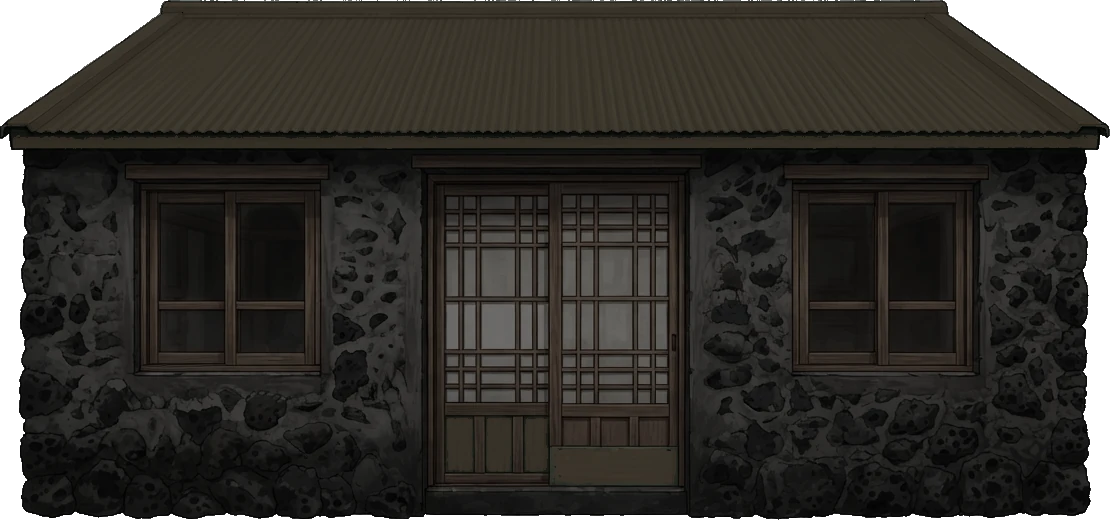
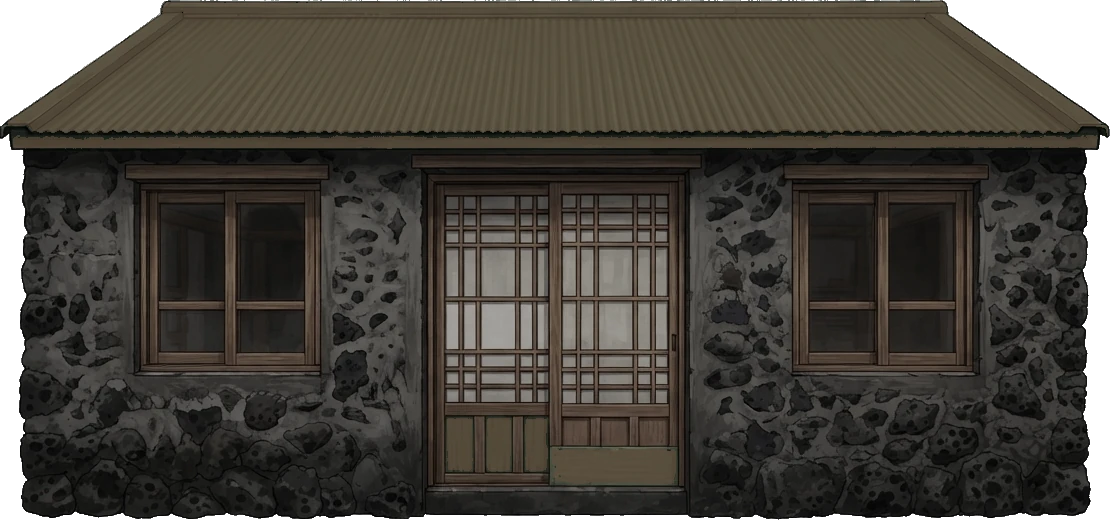
집 이설, 마구간·당근·조랑말, 물속 그림 대폭 교체
■ 헌집
- 폐가가 새까매서 알아볼 수 없다는 지적 → 밝기를 올리고 낡은 느낌은
  녹슨 지붕과 빛바랜 색이 전하도록 바꿈
- 남쪽 돌담길을 죽 내려간 언덕 끝, 바다가 내려다보이는 자리로 이설 (58,-72)
- 안내용 남쪽 돌담길 두 구간 추가, 비탈에 반쯤 파묻히던 문제는
  집 높이를 접근로 쪽 땅에 맞춰 해결

■ 마구간과 조랑말 (경마의 밑거름)
- 서쪽 벌판(-79,8)에 초가 마구간 (직접 그리신 그림, 조랑말이 안에 서 있음)
- 이장님 상점 앞 당근 바구니: F로 1,000원에 구입, 보유 수 배지 표시
- 마구간 앞 F: 당근 하나 먹이기 → 애정 +1 (❤ N/100 표시)
- 애정 100이면 경마 출전 가능 (경마 이벤트는 영상이 오면 붙임)

■ 물속 그림
- 해녀 영상 3개에서 8칸씩 뽑아 훨씬 부드러운 움직임으로:
  활공(헤엄) / 물속에 가만히 떠 있기(신규) / 수면에서 숨 고르기(신규)
- 수면 영상은 물보라 띠가 지워지며 머리가 몸과 분리되어 통째로 사라지는
  문제가 있었음 → 큰 덩어리는 여럿이라도 다 남기도록 고침
- 전복·소라·미역을 공·원뿔 대신 직접 그리신 해산물 그림으로 교체

diff --git a/game/jeju3d.js b/game/jeju3d.js
@@ -442,6 +442,9 @@ function buildStoneWall(x1, z1, x2, z2) {
 buildStoneWall(-92, 22, -66, 44);
 buildStoneWall(66, 60, 92, 44);
 buildStoneWall(-58, -74, -22, -84);
+// 헌집으로 안내하는 남쪽 돌담길 — 밭 사이에서 시작해 언덕 끝 집 앞까지 죽 내려갑니다
+buildStoneWall(46, -18, 52, -44);
+buildStoneWall(52, -44, 53, -66);
 
 // 감귤밭을 두르는 밭담. 네 변 중 한 곳은 터놓아야 루루가 들어갈 수 있습니다
 // (돌담은 낮아 보여도 통과가 막혀 있어서, 막아두면 밭 안으로 못 들어갑니다)
@@ -966,17 +969,20 @@ const DEPOT_RANGE = 6.5;   // 이 거리 안에서 F를 누르면 배송할 수 
 const citrusTrunkMat = new THREE.MeshLambertMaterial({ color: 0x6f5540, flatShading: true });
 
 // ---------- 8-2d. 헌집 (사서 고치는 제주 돌집) ----------
-// 마당 동쪽에 버려진 돌집이 서 있습니다. 사서 세 번 고치면(벽→지붕→페인트) 내 집이 됩니다.
+// 남쪽 돌담길을 죽 내려가면, 바다가 내려다보이는 언덕 끝에 버려진 돌집이 서 있습니다.
+// 사서 세 번 고치면(벽→지붕→페인트) 내 집이 됩니다.
 // 집은 직접 그리신 그림을 판에 세워 쓰고, 수리 단계마다 그림만 바꿔 끼웁니다.
 //   old_house_0: 폐가 / 1: 벽 고침 / 2: 지붕 고침 / 3: 완성 (원본 그대로)
-const HOUSE = { x: 13, z: 46 };
+const HOUSE = { x: 58, z: -72 };
 const HOUSE_RANGE = 5.5;
 const HOUSE_W = 8.5, HOUSE_H = 8.5 * 520 / 1110;   // 그림 비율 그대로
 let houseStage = -1;    // -1 = 아직 안 삼, 0~2 = 수리 중, 3 = 완성
 const houseTex = [];
 const house = (() => {
   const g = new THREE.Group();
-  const y = groundHeight(HOUSE.x, HOUSE.z);
+  // 언덕 비탈에 서 있으므로, 집 높이는 마당(북쪽 접근로) 쪽 땅에 맞춥니다.
+  // 집 한가운데 땅높이에 맞추면 앞쪽 비탈이 집 아랫도리를 절반쯤 가려버립니다.
+  const y = groundHeight(HOUSE.x, HOUSE.z + 3);
   g.position.set(HOUSE.x, y, HOUSE.z);
 
   let plane = null;
@@ -984,10 +990,11 @@ const house = (() => {
     for (let i = 0; i < 4; i++) houseTex.push(loadTexture(`../assets/farmcat/old_house_${i}.webp`));
     plane = new THREE.Mesh(
       new THREE.PlaneGeometry(HOUSE_W, HOUSE_H),
-      new THREE.MeshLambertMaterial({ map: houseTex[0], transparent: true, alphaTest: 0.5 })
+      // 양면으로 그려야 뒤로 돌아가도 집이 사라지지 않습니다 (뒤에서는 좌우가 뒤집혀 보일 뿐)
+      new THREE.MeshLambertMaterial({ map: houseTex[0], transparent: true, alphaTest: 0.5, side: THREE.DoubleSide })
     );
     plane.position.y = HOUSE_H / 2;
-    plane.rotation.y = Math.PI;      // 마당(남쪽)을 바라보게
+    // 집은 남쪽 언덕 끝에서 뭍(북쪽)을 바라봅니다 — 돌담길을 내려온 사람을 맞는 방향
     plane.castShadow = true;
     g.add(plane);
   }
@@ -1043,6 +1050,54 @@ function applyHouseLook() {
   house.sale.visible = houseStage < 0;    // 사고 나면 팻말이 사라집니다
 }
 applyHouseLook();
+
+// ---------- 8-2e. 마구간과 조랑말 ----------
+// 서쪽 벌판에 초가 마구간이 있고, 안에 제주 조랑말이 서 있습니다 (직접 그리신 그림).
+// 이장님 상점에서 당근(1,000원)을 사다 먹이면 애정이 쌓입니다 — 나중에 경마의 밑천이 됩니다.
+const STABLE = { x: -79, z: 8 };   // 서쪽 벌판 (바다에 걸치지 않게 물가에서 한 발 물림)
+const STABLE_RANGE = 6.0;
+const STABLE_W = 9.0, STABLE_H = 9.0 * 684 / 1019;   // 그림 비율 그대로
+const stable = (() => {
+  const g = new THREE.Group();
+  const y = groundHeight(STABLE.x, STABLE.z);
+  g.position.set(STABLE.x, y, STABLE.z);
+  if (CAN_USE_IMAGES) {
+    const plane = new THREE.Mesh(
+      new THREE.PlaneGeometry(STABLE_W, STABLE_H),
+      new THREE.MeshLambertMaterial({ map: loadTexture('../assets/farmcat/stable.webp'), transparent: true, alphaTest: 0.5, side: THREE.DoubleSide })
+    );
+    plane.position.y = STABLE_H / 2;
+    plane.rotation.y = Math.PI / 2;   // 섬 안쪽(동쪽)을 바라보게
+    plane.castShadow = true;
+    g.add(plane);
+  }
+  scene.add(g);
+  obstacles.push({ x: STABLE.x, z: STABLE.z, r: 3.2, topY: NO_JUMP });
+  return { group: g };
+})();
+
+let carrots = 0;      // 들고 있는 당근
+let ponyLove = 0;     // 조랑말과 쌓은 애정 (당근 하나에 1씩)
+const CARROT_PRICE = 1000;
+// 당근 바구니 — 상점 정면 서쪽에 놓인 판매대입니다. 상점(끈)과 자리를 나눠 씁니다.
+const CARROT_SPOT = { x: 3.2, z: 42.6 };
+const CARROT_RANGE = 2.4;
+{
+  const y = groundHeight(CARROT_SPOT.x, CARROT_SPOT.z);
+  const tub = new THREE.Mesh(new THREE.CylinderGeometry(0.5, 0.38, 0.34, 10), shopWoodMat);
+  tub.position.set(CARROT_SPOT.x, y + 0.17, CARROT_SPOT.z);
+  tub.castShadow = true;
+  scene.add(tub);
+  const carrotMat = new THREE.MeshLambertMaterial({ color: 0xe06a1d, flatShading: true });
+  for (let i = 0; i < 8; i++) {
+    const a = (i / 8) * Math.PI * 2;
+    const c = new THREE.Mesh(new THREE.ConeGeometry(0.07, 0.34, 6), carrotMat);
+    c.position.set(CARROT_SPOT.x + Math.cos(a) * 0.24, y + 0.42, CARROT_SPOT.z + Math.sin(a) * 0.24);
+    c.rotation.set((Math.random() - 0.5) * 0.9, 0, (Math.random() - 0.5) * 0.9);
+    c.castShadow = true;
+    scene.add(c);
+  }
+}
 
 // 8-3. 감귤나무 (밭담 안에 줄지어 심는 귤밭)
 // 귤은 나무마다 따로 만들면 수백 개가 되어 느려지므로, 위치만 모아뒀다가
@@ -1377,24 +1432,46 @@ const catchMeshes = {};       // 종류별 InstancedMesh
       catchSpots.push({ x, y, z, kind, picked: false });
     }
   }
-  // 종류별로 한 번에 그리기. 인스턴스 번호와 catchSpots 번호를 맞춰두어야 딸 때 숨길 수 있습니다
-  const GEO = {
-    abalone: new THREE.SphereGeometry(0.26, 8, 6),
-    conch:   new THREE.ConeGeometry(0.2, 0.42, 7),
-    kelp:    new THREE.SphereGeometry(0.3, 6, 5),
-  };
-  const MAT = { abalone: abaloneMat, conch: conchMat, kelp: kelpMat };
+  // 종류별로 한 번에 그리기. 인스턴스 번호와 catchSpots 번호를 맞춰두어야 딸 때 숨길 수 있습니다.
+  // 그림을 쓸 수 있으면 직접 그리신 해산물 그림을 작은 판에 세워 씁니다 (진짜 전복·소라·미역 모양).
+  // 그림을 못 읽는 경우(더블클릭으로 열었을 때)에는 예전처럼 공·원뿔로 대신합니다.
+  const CATCH_SIZE = { abalone: 0.55, conch: 0.5, kelp: 1.0 };   // 판 한 변의 크기(미터)
   for (const kind of Object.keys(CATCH_KINDS)) {
     const mine = catchSpots.map((s, i) => ({ s, i })).filter((o) => o.s.kind === kind);
-    const m = new THREE.InstancedMesh(GEO[kind], MAT[kind], mine.length);
-    mine.forEach((o, j) => {
-      o.s.slot = j;                                  // 이 채집물이 몇 번째 인스턴스인지 기억
-      dummy.position.set(o.s.x, o.s.y, o.s.z);
-      dummy.rotation.set(kind === 'abalone' ? Math.PI / 2 : 0, Math.random() * 3, 0);
-      dummy.scale.set(1, kind === 'abalone' ? 0.45 : 1, 1);
-      dummy.updateMatrix();
-      m.setMatrixAt(j, dummy.matrix);
-    });
+    let m;
+    if (CAN_USE_IMAGES) {
+      const sz = CATCH_SIZE[kind];
+      const geo = new THREE.PlaneGeometry(sz, sz);
+      geo.translate(0, sz * 0.42, 0);   // 아래끝을 바닥에 맞춰 세웁니다
+      m = new THREE.InstancedMesh(geo, new THREE.MeshLambertMaterial({
+        map: loadTexture(`../assets/farmcat/catch_${kind}.webp`),
+        transparent: true, alphaTest: 0.5, side: THREE.DoubleSide,
+      }), mine.length);
+      mine.forEach((o, j) => {
+        o.s.slot = j;
+        dummy.position.set(o.s.x, o.s.y, o.s.z);
+        dummy.rotation.set(0, Math.random() * Math.PI, 0);   // 아무 방향이나 보고 서 있게
+        dummy.scale.set(1, 1, 1);
+        dummy.updateMatrix();
+        m.setMatrixAt(j, dummy.matrix);
+      });
+    } else {
+      const GEO = {
+        abalone: new THREE.SphereGeometry(0.26, 8, 6),
+        conch:   new THREE.ConeGeometry(0.2, 0.42, 7),
+        kelp:    new THREE.SphereGeometry(0.3, 6, 5),
+      };
+      const MAT = { abalone: abaloneMat, conch: conchMat, kelp: kelpMat };
+      m = new THREE.InstancedMesh(GEO[kind], MAT[kind], mine.length);
+      mine.forEach((o, j) => {
+        o.s.slot = j;
+        dummy.position.set(o.s.x, o.s.y, o.s.z);
+        dummy.rotation.set(kind === 'abalone' ? Math.PI / 2 : 0, Math.random() * 3, 0);
+        dummy.scale.set(1, kind === 'abalone' ? 0.45 : 1, 1);
+        dummy.updateMatrix();
+        m.setMatrixAt(j, dummy.matrix);
+      });
+    }
     m.instanceMatrix.needsUpdate = true;
     m.frustumCulled = false;
     m.castShadow = true;
@@ -1572,8 +1649,10 @@ if (CAN_USE_IMAGES) {
   loadSheet('sleep',     'sleep.webp',      8,  299);          // 낮잠 (오래 가만히 있으면)
   loadSheet('harvest',   'harvest.webp',   10,  181);          // 감귤 따기 (F키로 딸 때, 한 번만 재생)
   loadSheet('pullSide',  'pull_side.webp', 10,  255);          // 끈 없이 상자를 몸으로 밀어 끌 때 (옆모습, 원본은 왼쪽을 봄)
-  // 해녀 물질 (캐릭터 시트에서 잘라낸 것 — 전부 옆모습, 원본은 왼쪽을 봄)
-  loadSheet('diveSwim',  'dive_swim.webp',  5,  224);          // 물속을 헤엄칠 때
+  // 해녀 물질 — 헤엄·둥둥·수면은 영상에서 뽑아 8칸씩이라 훨씬 부드럽게 움직입니다
+  loadSheet('diveSwim',  'dive_swim.webp',  8,  164);          // 물속 활공 (옆모습, 원본은 왼쪽을 봄)
+  loadSheet('diveIdle',  'dive_idle.webp',  8,  139);          // 물속에 가만히 떠 있기 (정면)
+  loadSheet('diveFloat', 'dive_float.webp', 8,  173);          // 수면에 떠서 숨 고르기 (정면)
   loadSheet('divePick',  'dive_pick.webp',  6,  190);          // 전복·소라를 딸 때 (한 번만 재생)
   loadSheet('diveUp',    'dive_up.webp',    5,  140);          // 수면으로 떠오를 때
   // 헌집 고치기 — 망치질(0) · 톱질(1) · 페인트칠(2). 수리 단계에 맞는 칸 하나를 보여줍니다
@@ -1833,6 +1912,19 @@ function updateRopeBadge() {
   if (typeof HOUSE !== 'undefined' &&
       Math.hypot(state.x - HOUSE.x, state.z - HOUSE.z) < HOUSE_RANGE + 3) {
     ropeBadge.textContent = houseBadgeText();
+    return;
+  }
+  // 당근 바구니·마구간 안내
+  if (typeof CARROT_SPOT !== 'undefined' &&
+      Math.hypot(state.x - CARROT_SPOT.x, state.z - CARROT_SPOT.z) < CARROT_RANGE) {
+    ropeBadge.textContent = `🥕 ${KEY_ACTION}으로 당근 구입 (${CARROT_PRICE.toLocaleString()}원)`;
+    return;
+  }
+  if (typeof STABLE !== 'undefined' &&
+      Math.hypot(state.x - STABLE.x, state.z - STABLE.z) < STABLE_RANGE) {
+    ropeBadge.textContent = carrots > 0
+      ? `🐴 ${KEY_ACTION}으로 당근 먹이기 (${carrots}개 있음)`
+      : '🐴 조랑말이 배고파해요 — 이장님 상점에서 당근을 사오세요';
     return;
   }
   if (hasRope) {
@@ -2630,18 +2722,65 @@ function playHammerSound() {
   }
 }
 
+// ---------- 12-1g. 당근 사서 조랑말 먹이기 ----------
+const carrotBadge = document.getElementById('carrotBadge');
+function updateCarrotBadge() {
+  if (!carrotBadge) return;
+  carrotBadge.style.display = carrots > 0 ? 'block' : 'none';
+  carrotBadge.textContent = `🥕 당근 ${carrots}개`;
+}
+
+function tryBuyCarrot() {
+  const y = groundHeight(CARROT_SPOT.x, CARROT_SPOT.z) + 1.3;
+  if (coins < CARROT_PRICE) {
+    spawnMoneyPopup(CARROT_SPOT.x, y, CARROT_SPOT.z, `${(CARROT_PRICE - coins).toLocaleString()}원 부족`);
+    return;
+  }
+  coins -= CARROT_PRICE;
+  carrots++;
+  updateCoinBadge();
+  updateCarrotBadge();
+  playPickSound();
+  spawnMoneyPopup(CARROT_SPOT.x, y, CARROT_SPOT.z, `🥕 당근 구입! (${carrots}개)`);
+}
+
+// 당근을 이만큼 먹이면 경마장에 나갈 수 있습니다 (경마는 준비 중 — 영상이 오면 붙입니다)
+const RACE_LOVE = 100;
+function tryFeedPony() {
+  const y = groundHeight(STABLE.x, STABLE.z) + STABLE_H * 0.75;
+  if (carrots <= 0) {
+    spawnMoneyPopup(STABLE.x, y, STABLE.z, '당근이 없어요 · 이장님 상점에서 1,000원');
+    return;
+  }
+  carrots--;
+  ponyLove++;
+  updateCarrotBadge();
+  playDropSound();
+  if (ponyLove >= RACE_LOVE) {
+    spawnMoneyPopup(STABLE.x, y, STABLE.z, `🏇 애정 ${ponyLove}! 경마장에 나갈 수 있어요 (준비 중)`);
+  } else {
+    spawnMoneyPopup(STABLE.x, y, STABLE.z, `🥕 냠냠! ❤ ${ponyLove}/${RACE_LOVE}`);
+  }
+  state.idleTime = 0;
+}
+
 // F키 하나로 상황에 맞는 행동을 합니다:
 // 물속이면 채집, 뭍이면 귤 따기 → 상점 → 택배사 → 헌집 → 포구 순으로 가까운 것을 씁니다.
 function handleActionKey() {
   if (state.harvestT >= 0 || state.fixT >= 0) return;
   if (state.diving) { tryCollect(); return; }
   if (nearestFruit() >= 0) { tryHarvest(); return; }
+  // 당근 바구니는 상점 코앞에 있으므로, 상점(끈)보다 먼저 좁은 범위로 확인합니다
+  const carrotDist = Math.hypot(state.x - CARROT_SPOT.x, state.z - CARROT_SPOT.z);
+  if (carrotDist < CARROT_RANGE) { tryBuyCarrot(); return; }
   const shopDist = Math.hypot(state.x - shop.group.position.x, state.z - shop.group.position.z);
   if (shopDist < SHOP_RANGE) { tryBuyRope(); return; }
   const depotDist = Math.hypot(state.x - depot.group.position.x, state.z - depot.group.position.z);
   if (depotDist < DEPOT_RANGE) { tryShipBox(); return; }
   const houseDist = Math.hypot(state.x - HOUSE.x, state.z - HOUSE.z);
   if (houseDist < HOUSE_RANGE + 3) { tryFixHouse(); return; }
+  const stableDist = Math.hypot(state.x - STABLE.x, state.z - STABLE.z);
+  if (stableDist < STABLE_RANGE) { tryFeedPony(); return; }
   const bulteokDist = Math.hypot(state.x - BULTEOK.x, state.z - BULTEOK.z);
   if (bulteokDist < BULTEOK_RANGE) enterDive();
 }
@@ -2898,20 +3037,31 @@ function updateSpriteLulu(groundY) {
   const t = performance.now() * 0.001;
 
   if (state.diving && SHEETS.diveSwim) {
-    // 물속에서는 해녀 차림 그림만 씁니다 (전부 옆모습이라 앞뒤 구분이 없습니다).
+    // 물속에서는 해녀 차림 그림만 씁니다.
+    const sp = Math.hypot(swimVel.x, swimVel.z);
     if (state.pickT >= 0) {
       // 전복을 따는 중 — 손을 뻗어 떼어내는 동작이 한 방향으로 재생됩니다
       sheet = SHEETS.divePick;
       cell = Math.min(sheet.frames - 1, Math.floor((state.pickT / PICK_DURATION) * sheet.frames));
+    } else if (lulu.position.y > SEA_Y - 1.2 && SHEETS.diveFloat) {
+      // 수면에 떠서 숨 고르는 중
+      sheet = SHEETS.diveFloat;
+      cell = Math.floor(t * 6) % sheet.frames;
     } else if (state.vy > 0.6 || surfacing > 0) {
       // 물 위로 떠오르는 중
       sheet = SHEETS.diveUp;
       cell = pingpong(Math.floor(t * 7), sheet.frames);
-    } else {
+    } else if (sp > 0.4) {
       // 헤엄치기 — 빨리 갈수록 팔다리가 빨리 움직입니다
       sheet = SHEETS.diveSwim;
-      const sp = Math.hypot(swimVel.x, swimVel.z);
-      cell = Math.floor(t * (3 + sp * 2.4)) % sheet.frames;
+      cell = Math.floor(t * (4 + sp * 2.4)) % sheet.frames;
+    } else if (SHEETS.diveIdle) {
+      // 가만히 물에 떠 있기
+      sheet = SHEETS.diveIdle;
+      cell = Math.floor(t * 6) % sheet.frames;
+    } else {
+      sheet = SHEETS.diveSwim;
+      cell = 0;
     }
   } else if (state.fixT >= 0 && SHEETS.fixHouse) {
     // 집 고치는 중 — 수리 단계에 맞는 연장을 든 그림 (0 망치, 1 톱, 2 붓).
@@ -2970,8 +3120,8 @@ function updateSpriteLulu(groundY) {
   // 옆모습일 때만 진행 방향에 맞춰 뒤집습니다. 정면·뒷모습은 어느 쪽으로 가든 그대로 둡니다
   // (정면으로 오면 좌우 성분이 0이라 뒤집기 값이 직전 것으로 남아 방향이 튀었습니다)
   // 옆모습 그림들은 원본이 왼쪽을 보므로, 오른쪽으로 갈 때 좌우를 뒤집습니다.
-  // 해녀 그림 세 장도 전부 옆모습이라 같이 넣어줍니다.
-  const sideSheets = [SHEETS.walkSide, SHEETS.pullSide, SHEETS.diveSwim, SHEETS.divePick, SHEETS.diveUp];
+  // (물속의 둥둥·수면 그림은 정면이라 뒤집지 않습니다)
+  const sideSheets = [SHEETS.walkSide, SHEETS.pullSide, SHEETS.diveSwim, SHEETS.divePick];
   const mirror = sideSheets.includes(sheet) && spriteCard.userData.headingRight;
   spriteCard.scale.set(mirror ? -Wp : Wp, Hp * breath, 1);
 

diff --git a/game/jeju3d.html b/game/jeju3d.html
@@ -99,6 +99,7 @@
     font-size: 12px; font-weight: 700;
   }
   #netBadge { display: none; bottom: 140px; }
+  #carrotBadge { display: none; bottom: 180px; }
   #netBadge.full { background: rgba(196, 96, 16, .85); color: #fff3d6; font-weight: 700; }
 
   /* ---- 시작 화면 ----
@@ -273,7 +274,8 @@
     <b>상점 이용</b> F (상점 근처에서)<br>
     <b>택배 부치기</b> F (택배사 근처에서)<br>
     <b>상자 잡기/놓기</b> E (가까이 가서)<br>
-    <b>헌집 사기·고치기</b> F (마당 동쪽 폐가에서)<br>
+    <b>헌집 사기·고치기</b> F (남쪽 언덕 끝 폐가에서)<br>
+    <b>당근·조랑말</b> F (상점 당근바구니 · 서쪽 마구간)<br>
     <b>물질하기</b> F (북쪽 해안 포구에서)<br>
     <b>물속에서</b> F 채집 · Space 떠오르기 · E 나가기<br>
     <b>배경음악</b> M (또는 배지 클릭)
@@ -284,6 +286,7 @@
   <div id="breathBar"><div id="breathFill"></div></div>
 
   <div class="badge" id="musicBadge">🎵 배경음악 켜짐</div>
+  <div class="badge" id="carrotBadge">🥕 당근 0개</div>
   <div class="badge" id="netBadge">🧺 망사리 0/24</div>
   <div class="badge" id="boxBadge">📦 상자 0/36</div>
   <div class="badge" id="ropeBadge">📦 상자에 가까이 가면 E로 잡을 수 있어요</div>
